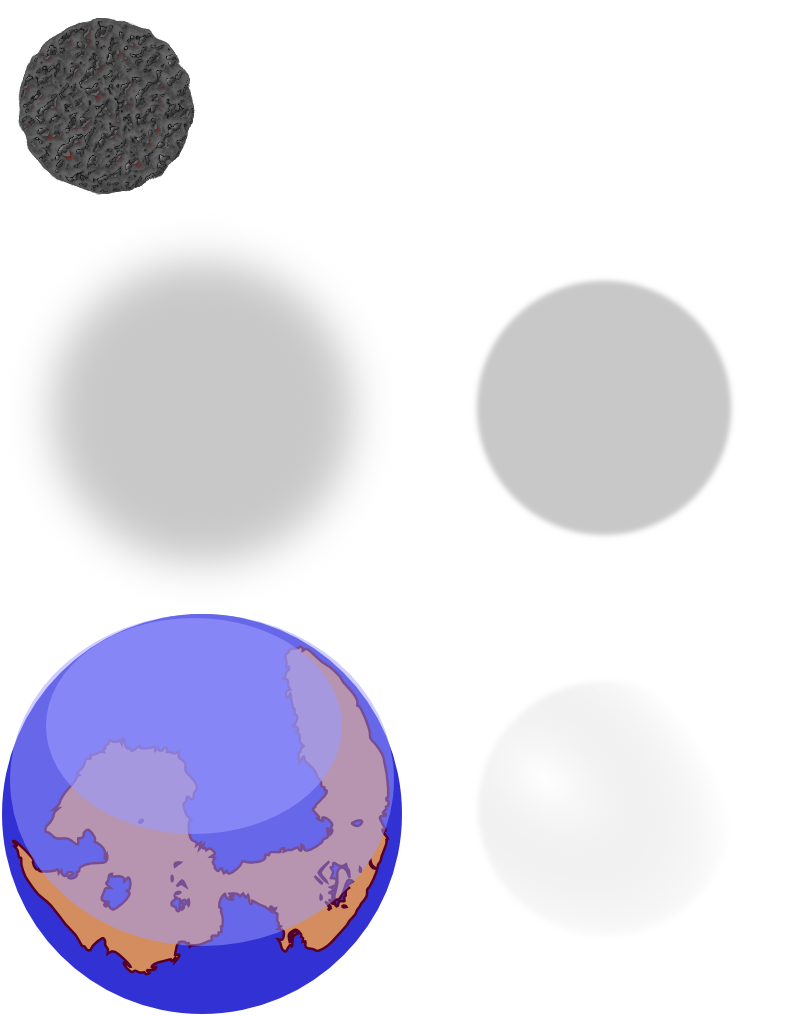
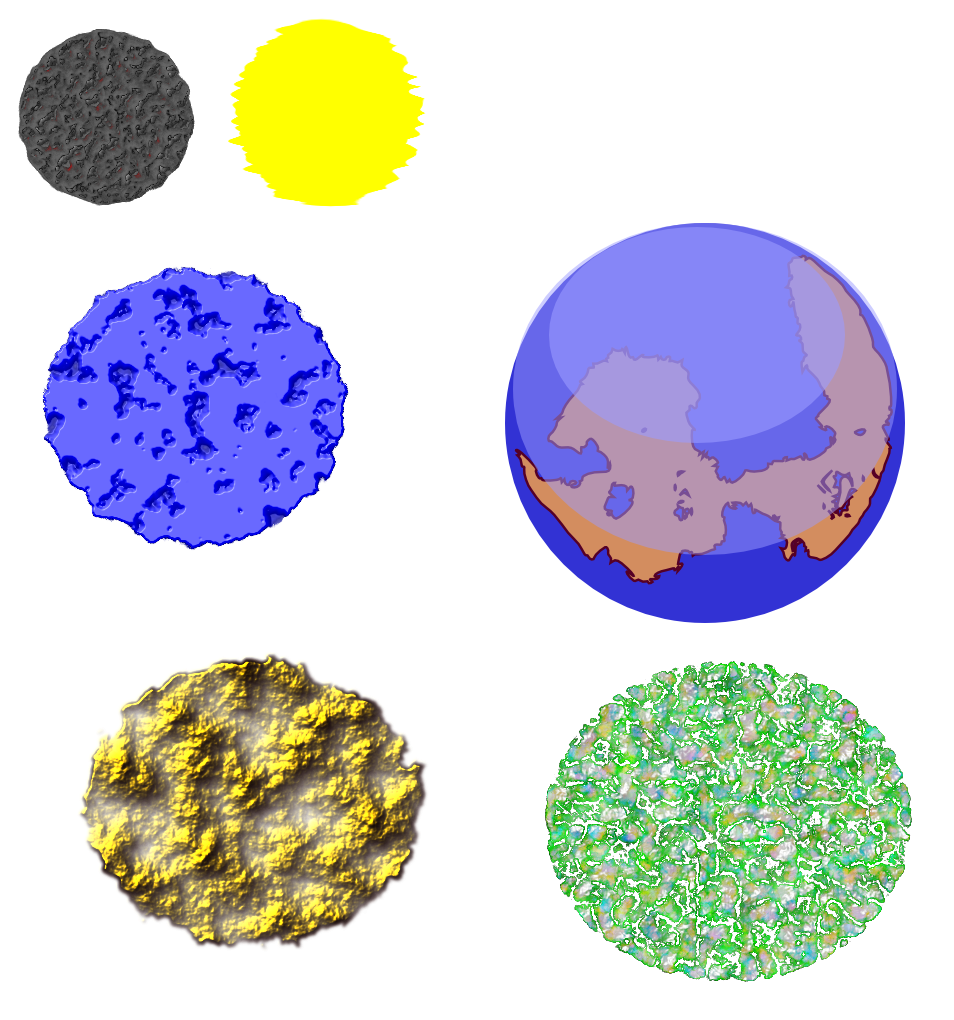
Some placeholder moon textures. Also worked on planet sizing and the player move display

diff --git a/GalCon-Client/GalCon-Client/src/com/xxx/galcon/screen/BoardScreen.java b/GalCon-Client/GalCon-Client/src/com/xxx/galcon/screen/BoardScreen.java
@@ -371,7 +371,7 @@ public class BoardScreen implements ScreenFeedback {
 
 	private void createMoon(Planet planet) {
 		final Moon moon = PlanetButtonFactory.createMoon(assetManager, planet,
-				 PlanetButtonFactory.tileHeightInWorld * 0.3f, PlanetButtonFactory.tileWidthInWorld * 0.3f);
+				 PlanetButtonFactory.tileHeightInWorld * 0.4f, PlanetButtonFactory.tileWidthInWorld * 0.4f);
 		
 		PlanetButton associatedAbilityPlanet = planetButtons.get(planet.name);
 		float relativeX = associatedAbilityPlanet.centerPoint().x - (moon.getWidth() / 2);
@@ -605,23 +605,29 @@ public class BoardScreen implements ScreenFeedback {
 	private void renderMoons() {
 		for(Moon moon : moons){
 			Point newPosition = findMoonPosition(moon);
-			moon.setX(newPosition.x - (moon.getWidth() /2));
-			moon.setY(newPosition.y - (moon.getHeight() / 2));
+			if(newPosition != null){
+				moon.setX(newPosition.x - (moon.getWidth() /2));
+				moon.setY(newPosition.y - (moon.getHeight() / 2));
+			}
 		}
 		
 	}
 
 	private Point findMoonPosition(Moon moon) {
 		PlanetButton associatedPlanet = planetButtons.get(moon.associatedPlanet.name);
-		if(moon.angle == 360){
-			moon.angle = 0;
+		Point movePoint = null;
+		if(associatedPlanet != null && gameBoard != null){
+			if(moon.angle == 360){
+				moon.angle = 0;
+			}
+			
+			float tileWidthInWorld = boardTable.getWidth() / gameBoard.widthInTiles;
+			float tileHeightInWorld = boardTable.getHeight() / gameBoard.heightInTiles;
+			
+			movePoint = GalConMath.nextPointInEllipse(associatedPlanet.centerPoint(), tileWidthInWorld / 2, tileHeightInWorld / 2, moon.angle);
+			moon.angle = (float) (moon.angle + moon.rateOfOrbit);
 		}
 		
-		float tileWidthInWorld = boardTable.getWidth() / gameBoard.widthInTiles;
-		float tileHeightInWorld = boardTable.getHeight() / gameBoard.heightInTiles;
-		
-		Point movePoint = GalConMath.nextPointInEllipse(associatedPlanet.centerPoint(), tileWidthInWorld / 2, tileHeightInWorld / 2, moon.angle);
-		moon.angle = (float) (moon.angle + moon.rateOfOrbit);
 		
 		return movePoint;
 	}

diff --git a/GalCon-Client/GalCon-Client/src/com/xxx/galcon/model/factory/PlanetButtonFactory.java b/GalCon-Client/GalCon-Client/src/com/xxx/galcon/model/factory/PlanetButtonFactory.java
@@ -30,12 +30,12 @@ public class PlanetButtonFactory {
 		PlanetButtonFactory.fontShader = createShader("data/shaders/font-vs.glsl", "data/shaders/font-fs.glsl");
 
 		PlanetButtonFactory.planetAtlas = assetManager.get("data/images/planets.atlas", TextureAtlas.class);
-		PlanetButtonFactory.planetTexture = new TextureRegionDrawable(planetAtlas.findRegion("base_planet"));
+		PlanetButtonFactory.planetTexture = new TextureRegionDrawable(planetAtlas.findRegion("planet4"));
 		PlanetButtonFactory.style = new TextButtonStyle(planetTexture, planetTexture, planetTexture, Fonts.getInstance(
 				assetManager).mediumFont());
 		
-		
-		PlanetButtonFactory.minPlanetSize = tileWidthInWorld * 0.4f;
+		float largest = Math.max(tileWidthInWorld, tileHeightInWorld);
+		PlanetButtonFactory.minPlanetSize = largest * 0.7f;
 		PlanetButtonFactory.planetTexture.setMinWidth(minPlanetSize);
 		PlanetButtonFactory.planetTexture.setMinHeight(minPlanetSize);
 		
@@ -50,7 +50,8 @@ public class PlanetButtonFactory {
 	public static PlanetButton createPlanetButtonWithExpansion(Planet planet, GameBoard gameBoard, boolean roundAnimated){
 		float maxExpand = 5;
 		float expand = planet.shipRegenRate > maxExpand ? maxExpand : planet.shipRegenRate;
-		float newPlanetSize = minPlanetSize + ((tileWidthInWorld * 0.09f) * expand);
+		float largest = Math.max(tileWidthInWorld, tileHeightInWorld);
+		float newPlanetSize = minPlanetSize + ((largest * 0.05f) * expand);
 		
 		
 		return createPlanetButton(planet, gameBoard, roundAnimated, newPlanetSize, newPlanetSize);
@@ -61,6 +62,7 @@ public class PlanetButtonFactory {
 		planetTexture.setMinHeight(height);
 		final PlanetButton planetButton = new PlanetButton(fontShader, ""
 				+ planet.numberOfShipsToDisplay(gameBoard, roundAnimated), style, planet);
+
 		planetButton.setColor(planet.getColor());
 		planetButton.setHeight(height);
 		planetButton.setWidth(width);

diff --git a/GalCon-Client/GalCon-Client/src/com/xxx/galcon/screen/widget/Moon.java b/GalCon-Client/GalCon-Client/src/com/xxx/galcon/screen/widget/Moon.java
@@ -4,6 +4,7 @@ import com.badlogic.gdx.assets.AssetManager;
 import com.badlogic.gdx.graphics.g2d.TextureAtlas;
 import com.badlogic.gdx.scenes.scene2d.ui.Image;
 import com.badlogic.gdx.scenes.scene2d.utils.TextureRegionDrawable;
+import com.xxx.galcon.Constants;
 import com.xxx.galcon.model.Planet;
 
 public class Moon extends Image{
@@ -14,7 +15,16 @@ public class Moon extends Image{
 	
 	public Moon(AssetManager assetManager, Planet associatedPlanet, float height, float width){
 		TextureAtlas planetAtlas = assetManager.get("data/images/planets.atlas", TextureAtlas.class);
-		TextureRegionDrawable moon = new TextureRegionDrawable(planetAtlas.findRegion("dead_planet"));
+		TextureRegionDrawable moon;
+		if(associatedPlanet.ability.equals(Constants.ABILITY_ATTACK_INCREASE)){
+			moon = new TextureRegionDrawable(planetAtlas.findRegion("attackMoon"));
+
+		}else if(associatedPlanet.ability.equals(Constants.ABILITY_DEFENCE_INCREASE)){
+			moon = new TextureRegionDrawable(planetAtlas.findRegion("defenseMoon"));
+
+		}else{
+			moon = new TextureRegionDrawable(planetAtlas.findRegion("speedMoon"));
+		}
 		moon.setMinHeight(height);
 		moon.setMinWidth(width);
 		setDrawable(moon);
